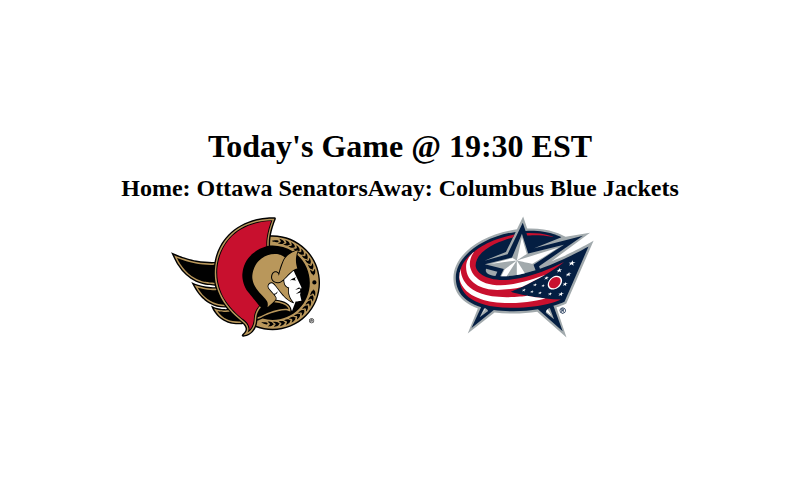
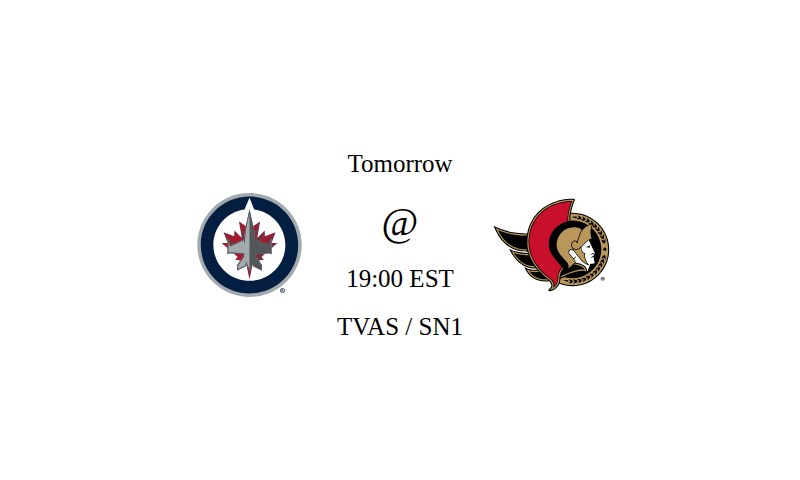
Added networks, friendly day, changed layout slightly and retrieved team stats for future display

Changed region(s): [[0.1562, 0.2812, 0.8438, 0.7188]]

diff --git a/src/plugins/nhl_team_schedule/render/nhl_team_schedule.html b/src/plugins/nhl_team_schedule/render/nhl_team_schedule.html
@@ -2,17 +2,17 @@
 <div>
   <h1 class="title">{{ title }}</h1>
   <div class="content">
-    <div class="homeTeam">
-      <h2>
-        Home: {{ home_team.placeName.default }} {{ home_team.commonName.default }}
-      </h2>
-      <img src="{{ home_team.logo | safe }}" height="150" />
-    </div>
     <div class="awayTeam">
-      <h2>
-        Away: {{ away_team.placeName.default }} {{ away_team.commonName.default }}
-      </h2>
-      <img src="{{ away_team.logo | safe }}" height="150" />
+      <img class="teamLogo" src="{{ away_team.logo | safe }}" />
+    </div>
+    <div class="dayTime">
+      <span>{{ day }}</span>
+      <span class="at">@</span>
+      <span class="time">{{ time }}</span>
+      <span>{{ " / ".join(networks) }}</span>
+    </div>
+    <div class="homeTeam">
+      <img class="teamLogo" src="{{ home_team.logo | safe }}" />
     </div>
   </div>
 </div>

diff --git a/src/plugins/nhl_team_schedule/render/nhl_team_schedule.css b/src/plugins/nhl_team_schedule/render/nhl_team_schedule.css
@@ -8,6 +8,7 @@
   width: 100%;
   display: flex;
   justify-content: space-between;
+  align-items: center;
   margin-top: 10px;
 }
 
@@ -15,5 +16,22 @@
   display: flex;
   flex-direction: column;
   align-items: center;
+}
+
+.dayTime { 
+  font-size: 25px;
+  display: flex;
+  flex-direction: column;
+  align-items: center;
+  gap: 20px;
+}
+
+.teamLogo {
+  width: 175px;
+  height: auto;
+}
+
+.at {
+  font-size: 40px;
 }
 

diff --git a/src/plugins/nhl_team_schedule/nhl_team_schedule.py b/src/plugins/nhl_team_schedule/nhl_team_schedule.py
@@ -1,5 +1,5 @@
 from plugins.base_plugin.base_plugin import BasePlugin
-from datetime import datetime
+from datetime import datetime, timedelta
 import requests
 import logging
 from pytz import timezone, utc
@@ -14,12 +14,44 @@ class NHLTeamSchedule(BasePlugin):
         return template_params
 
     def generate_image(self, settings, device_config):
-        title = settings.get("title")
-
         nhl_team = settings.get("nhlTeam")
         if not nhl_team:
             raise RuntimeError("NHL Team is required.")
+        
+        todays_game, next_game = self.get_game_schedule(nhl_team)
+        day, time, selected_game = self.get_day_and_time(todays_game, next_game)
+        networks = self.get_game_story(selected_game["id"])
+        home_team = selected_game["homeTeam"]
+        away_team = selected_game["awayTeam"]
 
+        home_team_stats, away_team_stats = self.get_team_stats(home_team, away_team)
+
+        logger.info(f"Home Team Stats: {home_team_stats}")
+        logger.info(f"Away Team Stats: {away_team_stats}")
+
+        image_template_params = {
+            "day": day,
+            "time": time,
+            "home_team": home_team,
+            "away_team": away_team,
+            "networks": networks,
+            "plugin_settings": settings,
+        }
+
+        dimensions = device_config.get_resolution()
+        if device_config.get_config("orientation") == "vertical":
+            dimensions = dimensions[::-1]
+
+        image = self.render_image(
+            dimensions,
+            "nhl_team_schedule.html",
+            "nhl_team_schedule.css",
+            image_template_params,
+        )
+
+        return image
+    
+    def get_game_schedule(self, nhl_team):
         response = requests.get(
             f"https://api-web.nhle.com/v1/club-schedule-season/{nhl_team}/now",
             timeout=10,
@@ -32,10 +64,7 @@ class NHLTeamSchedule(BasePlugin):
             logger.error(
                 f"NHL Team Schedule Plugin: Error: {response.status_code} - {response.text}"
             )
-
-        dimensions = device_config.get_resolution()
-        if device_config.get_config("orientation") == "vertical":
-            dimensions = dimensions[::-1]
+            raise RuntimeError("Failed to fetch NHL team schedule data.")
 
         todays_date = datetime.now().strftime("%Y-%m-%d")
         todays_game = None
@@ -48,31 +77,72 @@ class NHLTeamSchedule(BasePlugin):
                 break
             elif not next_game and game_date > todays_date:
                 next_game = game
+        
+        return todays_game, next_game
+    
+    def get_game_story(self, game_id):
+        # contains some pre-game statistics like PK percentage etc
+        response = requests.get(
+            f"https://api-web.nhle.com/v1/wsc/game-story/{game_id}",
+            timeout=10,
+            headers={"Content-Type": "application/json"},
+        )
+
+        if response.status_code == 200:
+            data = response.json()
+        else:
+            logger.error(
+                f"NHL Team Schedule Plugin: Error: {response.status_code} - {response.text}"
+            )
+            raise RuntimeError("Failed to fetch game story data.")
+        
+        networks = []
+
+        for tv_broadcast in data.get("tvBroadcasts", []):
+            networks.append(tv_broadcast["network"])
+
+        return networks
+    
+    def get_team_stats(self, home_team, away_team):
+        response = requests.get(
+            "https://api-web.nhle.com/v1/standings/now",
+            timeout=10,
+            headers={"Content-Type": "application/json"},
+        )
+
+        if response.status_code == 200:
+            data = response.json()
+        else:
+            logger.error(
+                f"NHL Team Schedule Plugin: Error: {response.status_code} - {response.text}"
+            )
+            raise RuntimeError("Failed to fetch team stats data.")
+        
+        home_team_stats = {}
+        away_team_stats = {}
+        for team in data.get("standings", []):
+            if team["teamCommonName"]["default"] == home_team["commonName"]["default"]:
+                home_team_stats = team
+            elif team["teamCommonName"]["default"] == away_team["commonName"]["default"]:
+                away_team_stats = team
+            elif home_team_stats and away_team_stats:
+                break
+
+        return home_team_stats, away_team_stats
+    
+    def get_day_and_time(self, todays_game, next_game):
+        eastern = timezone('US/Eastern')
+        utc_dt = datetime.strptime(todays_game['startTimeUTC'] if todays_game else next_game['startTimeUTC'], "%Y-%m-%dT%H:%M:%SZ")
+        eastern_dt = utc.localize(utc_dt).astimezone(eastern)
+        time = eastern_dt.strftime('%H:%M %Z')
 
         if todays_game:
-            start_utc = datetime.strptime(todays_game['startTimeUTC'], "%Y-%m-%dT%H:%M:%SZ")
-            eastern = timezone('US/Eastern')
-            start_eastern = utc.localize(start_utc).astimezone(eastern)
-            title = f"Today's Game @ {start_eastern.strftime('%H:%M %Z')}"
+            day = "Today"
             selected_game = todays_game
         elif next_game:
-            title = f"Next Game {next_game['gameDate']}"
+            day = "Tomorrow" if next_game['gameDate'] == (datetime.now() + timedelta(days=1)).strftime("%Y-%m-%d") else eastern_dt.strftime('%A, %B %d')
             selected_game = next_game
         else:
             raise RuntimeError("No upcoming games found.")
 
-        image_template_params = {
-            "title": title,
-            "home_team": selected_game["homeTeam"],
-            "away_team": selected_game["awayTeam"],
-            "plugin_settings": settings,
-        }
-
-        image = self.render_image(
-            dimensions,
-            "nhl_team_schedule.html",
-            "nhl_team_schedule.css",
-            image_template_params,
-        )
-
-        return image
+        return day, time, selected_game
